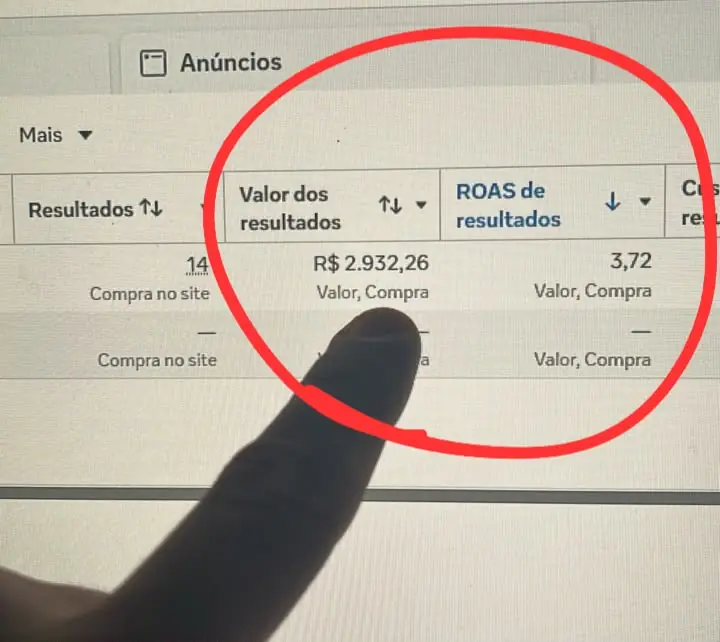
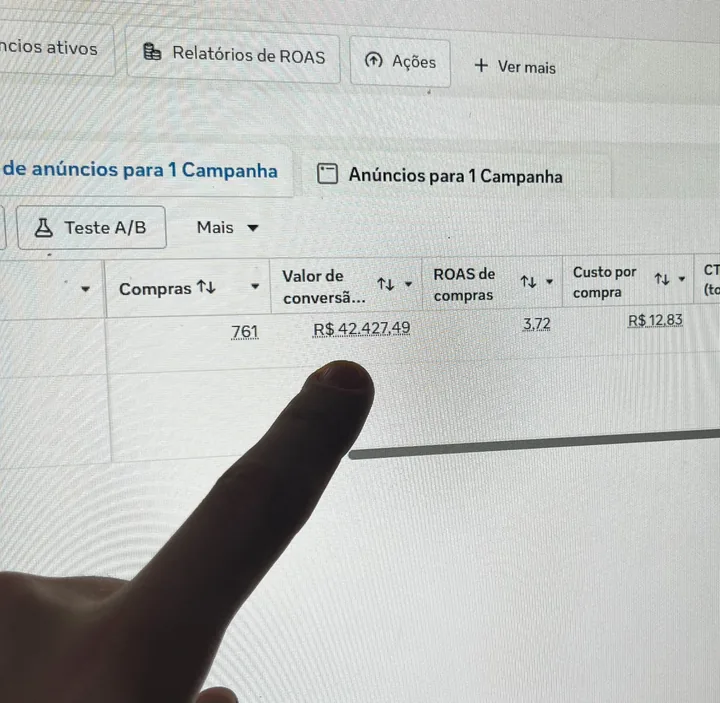
Add files via upload

diff --git a/src/routes/index.tsx b/src/routes/index.tsx
@@ -666,13 +666,13 @@ function Authority() {
               <Picture
                 avif={authorResultAvif}
                 webp={authorResultWebp}
-                alt="Registro de campanha do criador com 14 compras e ROAS de 3,72"
+                alt="Registro de campanha do criador com 761 compras, R$ 42.427,49 em valor de conversão e ROAS de 3,72"
                 width={720}
-                height={642}
+                height={703}
               />
               <figcaption>
                 <span>APLICAÇÃO PRÓPRIA</span>
-                <strong>14 compras registradas • ROAS 3,72</strong>
+                <strong>761 compras registradas • ROAS 3,72</strong>
               </figcaption>
             </figure>
 
@@ -769,7 +769,7 @@ function Product() {
           <SectionTag index="06">O PRODUTO</SectionTag>
           <div>
             <h2>ECONOMIZE NAS SUAS PÁGINAS — E TRANSFORME IA EM UMA POSSÍVEL RENDA EXTRA.</h2>
-            <p>Crie para suas próprias ofertas, <mark className="forge-mark forge-mark-lime">pare de pagar designer a cada nova ideia</mark> ou use o mesmo processo para entregar landing pages a clientes.</p>
+            <p>Uma <mark className="forge-mark forge-mark-lime">sequência de prompts prontos + aulas passo a passo</mark> para transformar sua oferta em uma página profissional. Use nas suas ofertas ou para entregar landing pages a clientes.</p>
           </div>
         </Reveal>
 
@@ -777,12 +777,12 @@ function Product() {
           <Reveal className="forge-product-spine">
             <span className="forge-product-vertical">LAND-IA / IMPLEMENTAÇÃO GUIADA</span>
             <div className="forge-product-screen">
-              <div className="forge-product-screen-top"><span>LESSON 04</span><b>BUILD MODE</b></div>
+              <div className="forge-product-screen-top"><span>PROMPTS + AULAS</span><b>PASSO A PASSO</b></div>
               <div className="forge-product-screen-body">
-                <small>DA ARQUITETURA PARA A TELA</small>
+                <small>DA PRIMEIRA INSTRUÇÃO À PUBLICAÇÃO</small>
                 <h3>CONSTRUA.<br />REVISE.<br /><span>PUBLIQUE.</span></h3>
                 <div className="forge-product-progress"><i /></div>
-                <div className="forge-product-screen-meta"><span>GRAVAÇÃO DE TELA</span><span>EXECUÇÃO REAL</span></div>
+                <div className="forge-product-screen-meta"><span>PROMPTS EM SEQUÊNCIA</span><span>APLICAÇÃO GUIADA</span></div>
               </div>
             </div>
           </Reveal>
@@ -799,10 +799,10 @@ function Product() {
         </div>
 
         <Reveal className="forge-execution-note">
-          <span>COMECE EXECUTANDO, NÃO “TERMINANDO UM CURSO”</span>
+          <span>O MÉTODO COMPLETO, EM UMA SEQUÊNCIA SIMPLES</span>
           <div>
-            <strong>UMA AULA. UMA ETAPA. SUA PÁGINA AVANÇA.</strong>
-            <p>Abra a aula, aplique no seu projeto e siga para a próxima decisão — da arquitetura até a publicação.</p>
+            <strong>PROMPTS PRONTOS. AULAS PRÁTICAS. DO ZERO À PÁGINA PUBLICADA.</strong>
+            <p>Você recebe os prompts na ordem certa e aulas que mostram como usar cada um. Copie, adapte ao seu negócio e aplique: oferta, copy, design, revisão e publicação, com direção em cada etapa.</p>
           </div>
         </Reveal>
 
@@ -821,8 +821,8 @@ function Product() {
           </article>
         </RevealGroup>
 
-        <SectionCTA eyebrow="TREINAMENTO + 2 BÔNUS" button="VER A OFERTA COMPLETA — R$ 47" variant="lime">
-          Abra, assista, execute e avance até a página publicada no seu domínio.
+        <SectionCTA eyebrow="PROMPTS + AULAS + 2 BÔNUS" button="VER A OFERTA COMPLETA — R$ 47" variant="lime">
+          Siga a sequência, aplique com as aulas e publique sua página no seu próprio domínio.
         </SectionCTA>
       </div>
     </section>

diff --git a/src/routes/__root.tsx b/src/routes/__root.tsx
@@ -85,7 +85,7 @@ export const Route = createRootRoute({
 
       {
         name: "landia-tracking-version",
-        content: "vsl-single-authority-2026-09-03",
+        content: "vsl-est-optout-2026-09-22",
       },
     ],
     links: [
@@ -153,6 +153,12 @@ function RootShell({ children }: { children: ReactNode }) {
             // eventos importantes desta landing são enviados manualmente com
             // event_id compartilhado entre navegador e CAPI.
             fbq('set', 'autoConfig', false, '2148386099070117');
+            // A regra do Event Setup Tool para "clique para assistir" usa
+            // ESTRuleEngine, que não faz parte de autoConfig e envia o evento
+            // internamente, sem passar pelo filtro de fbq acima. Desativamos
+            // esse motor antes do init; o player continua sendo a única origem
+            // do VSL_Play, com o mesmo event_id no Pixel e na CAPI.
+            fbq('optOut', '2148386099070117', 'ESTRuleEngine');
             fbq('init', '2148386099070117');
             `,
           }}
